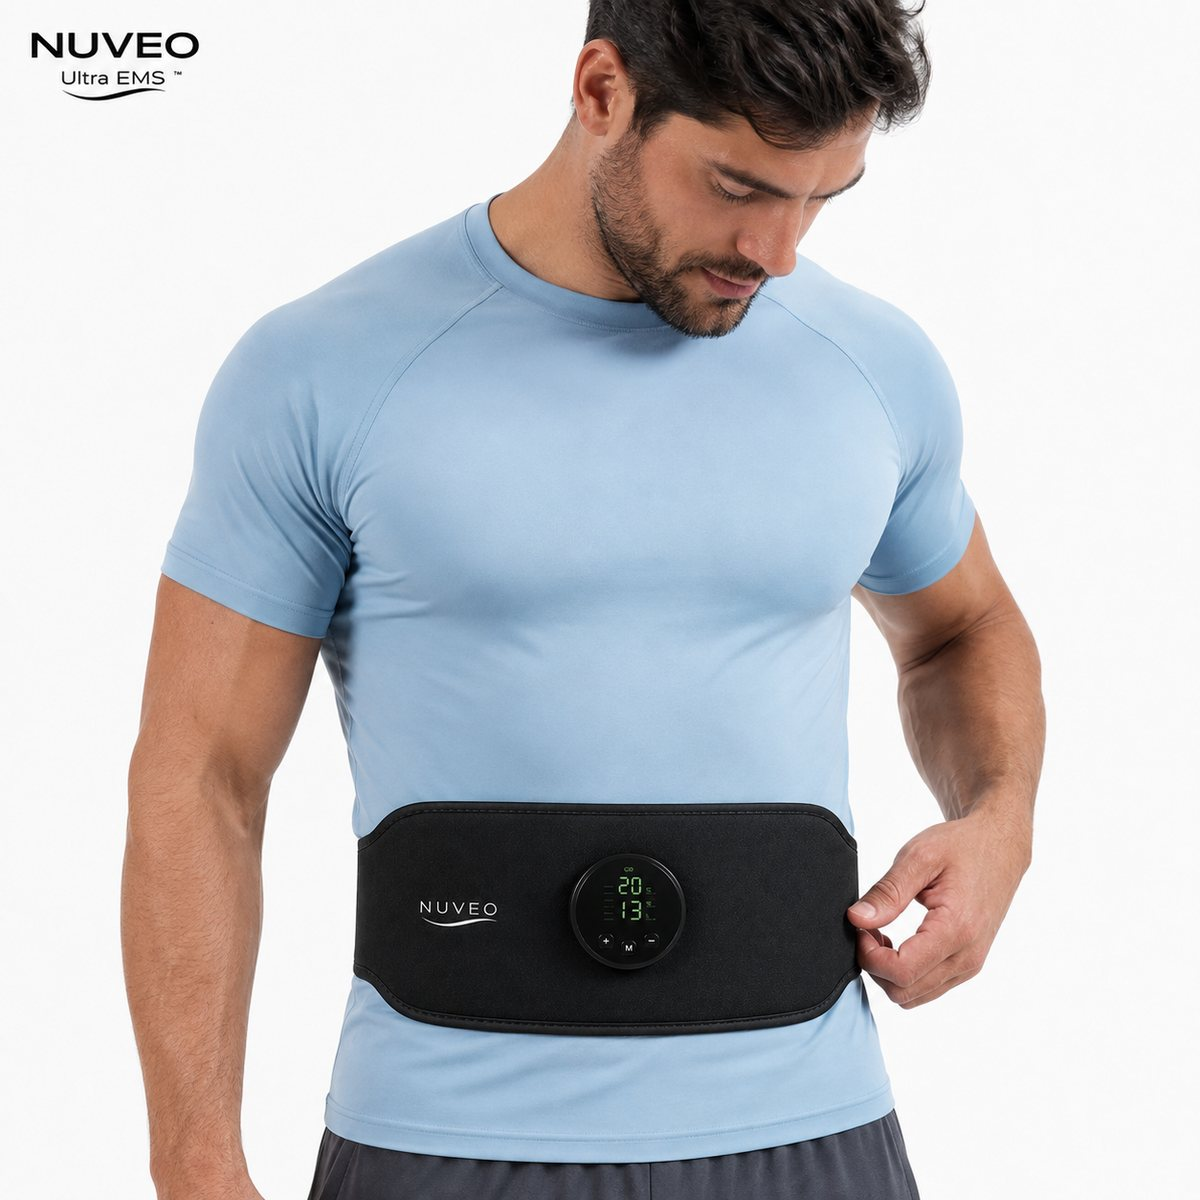
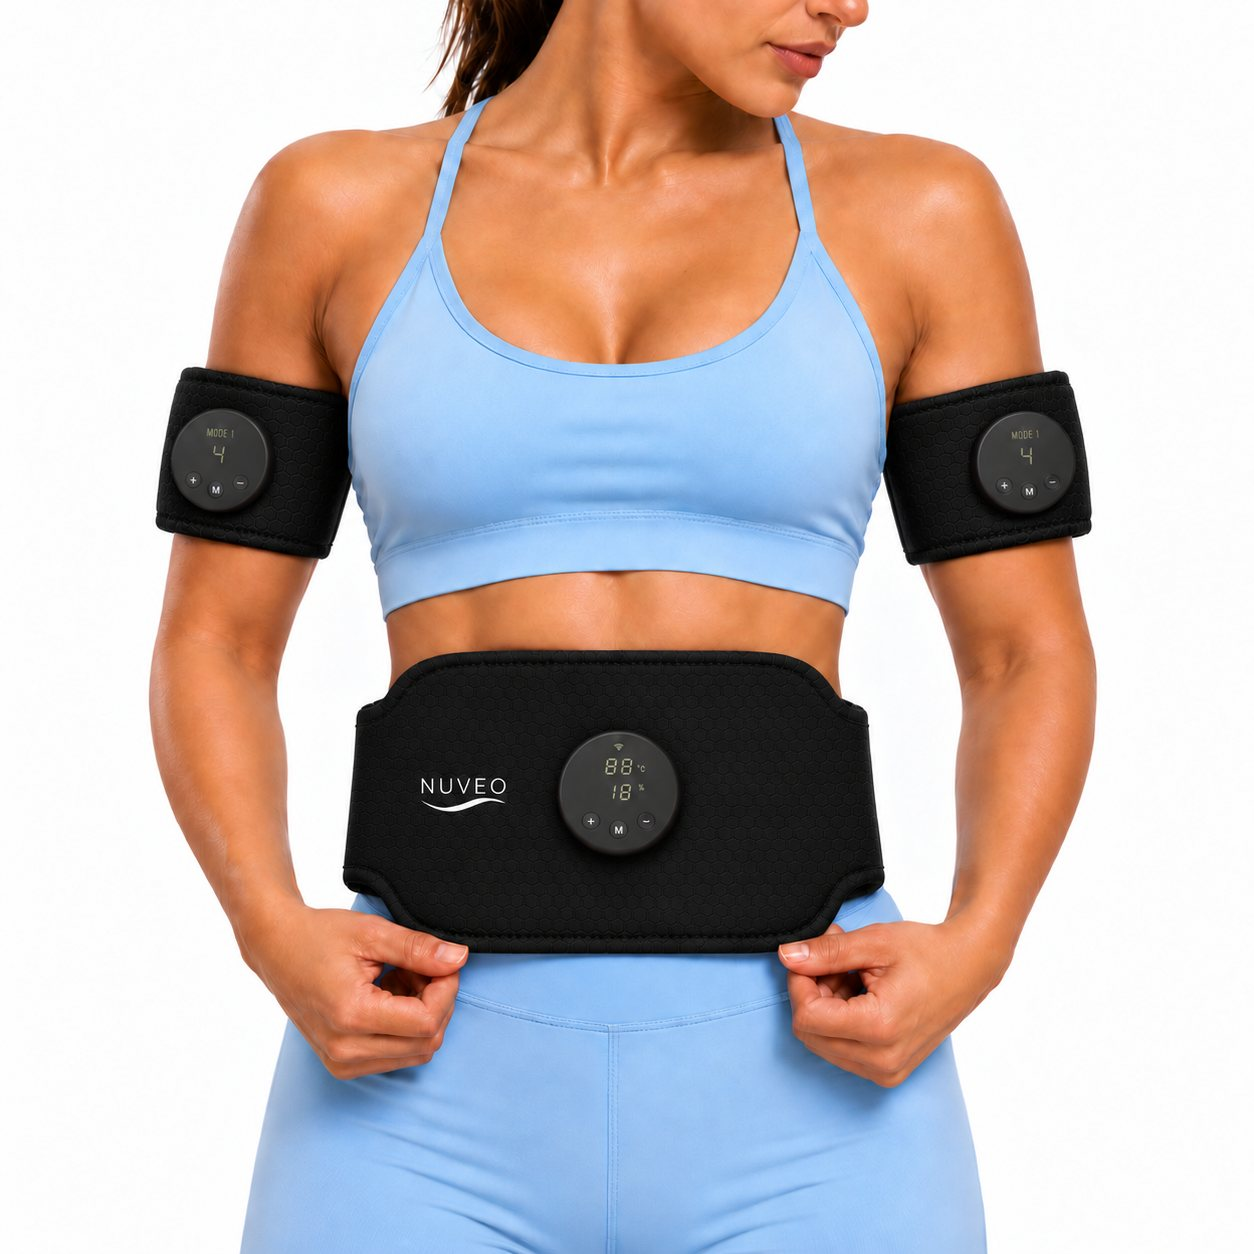
Reemplaza fotos de Nuveo por las reales de Figma (productos, resenas, medidas) y suma 2 gifs

diff --git a/projects.js b/projects.js
@@ -51,7 +51,7 @@ window.PORTFOLIO = {
       slides: ['img/luzbrambilla/01.jpg', 'img/luzbrambilla/02.jpg', 'img/luzbrambilla/03.jpg', 'img/luzbrambilla/04.png', 'img/luzbrambilla/05.jpg', 'img/luzbrambilla/06.jpg', 'img/luzbrambilla/07.jpg', 'img/luzbrambilla/08.jpg', 'img/luzbrambilla/09.jpg', 'img/luzbrambilla/10.jpg', 'img/luzbrambilla/11.jpg', 'img/luzbrambilla/12.jpg', 'img/luzbrambilla/13.jpg', 'img/luzbrambilla/14.jpg', 'img/luzbrambilla/15.jpg', 'img/luzbrambilla/16.jpg', 'img/luzbrambilla/17.jpg', 'img/luzbrambilla/18.jpg', 'img/luzbrambilla/19.jpg', 'img/luzbrambilla/20.jpg'], info: null },
 
     { slug: 'nuveo', title: 'Nuveo', tags: 'Fotografía · Producto', cat: 'trabajo', year: '', color: '#4a7a96', cover: 'img/nuveo.jpg',
-      slides: ['img/nuveo/01.jpg', 'img/nuveo/02.jpg', 'img/nuveo/03.jpg', 'img/nuveo/04.jpg', 'img/nuveo/05.jpg', 'img/nuveo/06.jpg', 'img/nuveo/07.jpg', 'img/nuveo/08.jpg', 'img/nuveo/09.jpg', 'img/nuveo/10.jpg', 'img/nuveo/11.jpg'], info: null },
+      slides: ['img/nuveo/01.jpg', 'img/nuveo/02.jpg', 'img/nuveo/03.jpg', 'img/nuveo/04.jpg', 'img/nuveo/05.jpg', 'img/nuveo/gif-abdomen.gif', 'img/nuveo/06.jpg', 'img/nuveo/07.jpg', 'img/nuveo/08.jpg', 'img/nuveo/09.jpg', 'img/nuveo/10.jpg', 'img/nuveo/11.jpg', 'img/nuveo/12.jpg', 'img/nuveo/13.jpg', 'img/nuveo/14.jpg', 'img/nuveo/15.jpg', 'img/nuveo/16.jpg', 'img/nuveo/17.jpg', 'img/nuveo/18.jpg', 'img/nuveo/19.jpg', 'img/nuveo/20.jpg', 'img/nuveo/21.jpg', 'img/nuveo/22.jpg', 'img/nuveo/23.jpg', 'img/nuveo/24.jpg', 'img/nuveo/gif-abdomengluteos.gif', 'img/nuveo/25.jpg', 'img/nuveo/26.jpg', 'img/nuveo/27.jpg', 'img/nuveo/28.jpg', 'img/nuveo/29.jpg', 'img/nuveo/30.jpg', 'img/nuveo/31.jpg', 'img/nuveo/32.jpg', 'img/nuveo/33.jpg', 'img/nuveo/34.jpg'], info: null },
 
   ],
 };
